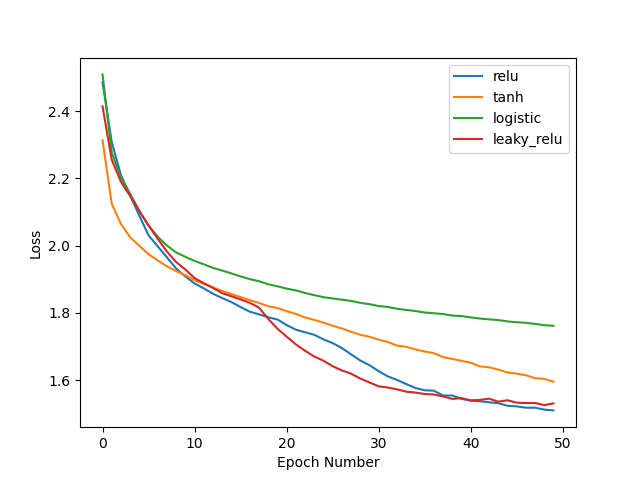
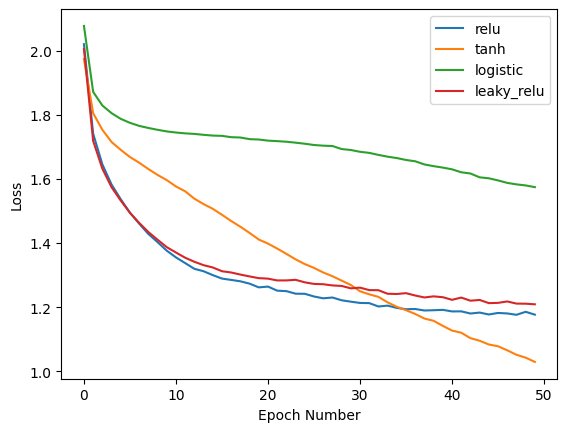
upload evals

diff --git a/algorithms/Evals.py b/algorithms/Evals.py
@@ -34,7 +34,7 @@ def set_exp(exps, exp_name = "activation", deep = False):
         if exp_name == "activation":
             nn = set_nn(act=exp)
             if deep == True:
-                nn = set_nn(act=exp, structure = [65, 60, 55, 50, 45, 40, 35, 30, 25, 20, 15, 10])
+                nn = set_nn(act=exp, structure = [256, 128, 65, 60, 55, 50, 45, 40, 35, 30, 25, 20, 15, 10])
 
         elif exp_name == "optimiser":
             nn = set_nn(opt=exp)
